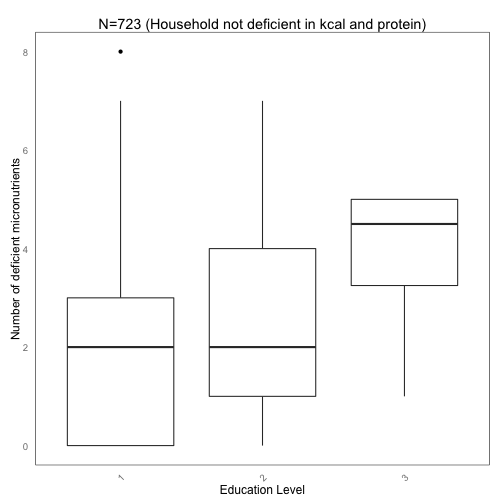
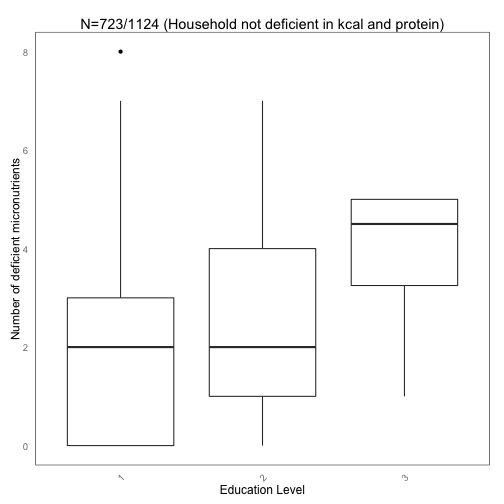
Initial commit

Changed region(s): [[0.1488, 0.0298, 0.8929, 0.0595]]

diff --git a/bin/report.html b/bin/report.html
@@ -68,36 +68,32 @@
 
 <body>
 
-<p>This is an R HTML document. When you click the <b>Knit HTML</b> button a web page will be generated that includes both content as well as the output of any embedded R code chunks within the document. You can embed an R code chunk like this:</p>
+Data can be found:<br>
+https://github.com/harvestchoice/nutrition_indicators<br><br>
+
+Summary<br>
+Using the Malawi household data, this exploratory analysis found a positive correlation between wealth and education(b6). The education level was recoded assuming that "Std" were primary level of education. It was found that diversity of diet is positively correlated with education level. However, there was an unexpected negative correlation of number of deficient micronutrients with education level. This relationship was more profound when households that were not deficient in calories and proteins were removed.
 
 <div class="chunk" id="unnamed-chunk-1"><div class="rcode"><div class="source"><pre class="knitr r"><span class="hl kwd">library</span><span class="hl std">(ggplot2)</span>
 <span class="hl std">fp.mwi.nutr</span> <span class="hl kwb">&lt;-</span> <span class="hl str">&quot;/Users/angelmak/Dropbox/git/nutrition_indicators/Malawi/mwi_nutrition.csv&quot;</span>
-<span class="hl std">fp.mwi.anthro</span> <span class="hl kwb">&lt;-</span> <span class="hl str">&quot;/Users/angelmak/Dropbox/git/nutrition_indicators/Malawi/mwi_anthropometry.csv&quot;</span>
 <span class="hl std">t.m.nutr</span> <span class="hl kwb">&lt;-</span> <span class="hl kwd">read.csv</span><span class="hl std">(fp.mwi.nutr)</span>
-<span class="hl std">t.m.anthro</span> <span class="hl kwb">&lt;-</span> <span class="hl kwd">read.csv</span><span class="hl std">(fp.mwi.anthro)</span>
 
-<span class="hl com"># deficiency</span>
-<span class="hl com">#names(t.m.nutr)</span>
-<span class="hl kwa">for</span> <span class="hl std">(i</span> <span class="hl kwa">in</span> <span class="hl num">1</span><span class="hl opt">:</span><span class="hl kwd">nrow</span><span class="hl std">(t.m.nutr)){</span>
-  <span class="hl std">t.m.nutr[i,</span><span class="hl str">&quot;defCount&quot;</span><span class="hl std">]</span> <span class="hl kwb">&lt;-</span> <span class="hl kwd">sum</span><span class="hl std">(t.m.nutr[i,</span><span class="hl num">257</span><span class="hl opt">:</span><span class="hl num">284</span><span class="hl std">]</span> <span class="hl opt">==</span> <span class="hl str">&quot;Yes&quot;</span><span class="hl std">)</span>
-<span class="hl std">}</span>
-
-<span class="hl com"># deficiency without kcal</span>
-<span class="hl kwd">names</span><span class="hl std">(t.m.nutr[,</span><span class="hl num">257</span><span class="hl opt">:</span><span class="hl num">284</span><span class="hl std">])</span>
+<span class="hl com"># variables indicating deficiency in nutrients, in the required level</span>
+<span class="hl std">req.names</span> <span class="hl kwb">&lt;-</span> <span class="hl kwd">names</span><span class="hl std">(t.m.nutr)[</span><span class="hl kwd">grep</span><span class="hl std">(</span><span class="hl str">&quot;req_hh&quot;</span><span class="hl std">,</span><span class="hl kwd">names</span><span class="hl std">(t.m.nutr))]</span>
+<span class="hl com"># variables indicating deficiency in micro-nutrients(exclude calories and proteins), in the required level</span>
+<span class="hl std">req.names.micro</span> <span class="hl kwb">&lt;-</span> <span class="hl std">req.names[</span><span class="hl num">3</span><span class="hl opt">:</span><span class="hl num">14</span><span class="hl std">]</span>
+<span class="hl std">req.names.micro</span>
 </pre></div>
-<div class="output"><pre class="knitr r">##  [1] &quot;def_kcal_rec_hh&quot;     &quot;def_kcal_req_hh&quot;     &quot;def_prot_rec_hh&quot;    
-##  [4] &quot;def_prot_req_hh&quot;     &quot;def_iron_rec_hh&quot;     &quot;def_iron_req_hh&quot;    
-##  [7] &quot;def_zinc_rec_hh&quot;     &quot;def_zinc_req_hh&quot;     &quot;def_vita_A_rec_hh&quot;  
-## [10] &quot;def_vita_A_req_hh&quot;   &quot;def_vita_E_rec_hh&quot;   &quot;def_vita_E_req_hh&quot;  
-## [13] &quot;def_vita_C_rec_hh&quot;   &quot;def_vita_C_req_hh&quot;   &quot;def_ribof_rec_hh&quot;   
-## [16] &quot;def_ribof_req_hh&quot;    &quot;def_thia_rec_hh&quot;     &quot;def_thia_req_hh&quot;    
-## [19] &quot;def_nia_rec_hh&quot;      &quot;def_nia_req_hh&quot;      &quot;def_vita_B6_rec_hh&quot; 
-## [22] &quot;def_vita_B6_req_hh&quot;  &quot;def_fol_rec_hh&quot;      &quot;def_fol_req_hh&quot;     
-## [25] &quot;def_calcium_rec_hh&quot;  &quot;def_calcium_req_hh&quot;  &quot;def_vita_B12_rec_hh&quot;
-## [28] &quot;def_vita_B12_req_hh&quot;
+<div class="output"><pre class="knitr r">##  [1] &quot;def_iron_req_hh&quot;     &quot;def_zinc_req_hh&quot;     &quot;def_vita_A_req_hh&quot;  
+##  [4] &quot;def_vita_E_req_hh&quot;   &quot;def_vita_C_req_hh&quot;   &quot;def_ribof_req_hh&quot;   
+##  [7] &quot;def_thia_req_hh&quot;     &quot;def_nia_req_hh&quot;      &quot;def_vita_B6_req_hh&quot; 
+## [10] &quot;def_fol_req_hh&quot;      &quot;def_calcium_req_hh&quot;  &quot;def_vita_B12_req_hh&quot;
 </pre></div>
 <div class="source"><pre class="knitr r"><span class="hl kwa">for</span> <span class="hl std">(i</span> <span class="hl kwa">in</span> <span class="hl num">1</span><span class="hl opt">:</span><span class="hl kwd">nrow</span><span class="hl std">(t.m.nutr)){</span>
-  <span class="hl std">t.m.nutr[i,</span><span class="hl str">&quot;defCountMicro&quot;</span><span class="hl std">]</span> <span class="hl kwb">&lt;-</span> <span class="hl kwd">sum</span><span class="hl std">(t.m.nutr[i,</span><span class="hl num">259</span><span class="hl opt">:</span><span class="hl num">284</span><span class="hl std">]</span> <span class="hl opt">==</span> <span class="hl str">&quot;Yes&quot;</span><span class="hl std">)</span>
+  <span class="hl std">t.m.nutr[i,</span><span class="hl str">&quot;defCountReq&quot;</span><span class="hl std">]</span> <span class="hl kwb">&lt;-</span> <span class="hl kwd">sum</span><span class="hl std">(t.m.nutr[i,req.names]</span> <span class="hl opt">==</span> <span class="hl str">&quot;Yes&quot;</span> <span class="hl std">)</span>
+<span class="hl std">}</span>
+<span class="hl kwa">for</span> <span class="hl std">(i</span> <span class="hl kwa">in</span> <span class="hl num">1</span><span class="hl opt">:</span><span class="hl kwd">nrow</span><span class="hl std">(t.m.nutr)){</span>
+  <span class="hl std">t.m.nutr[i,</span><span class="hl str">&quot;defCountReqMicro&quot;</span><span class="hl std">]</span> <span class="hl kwb">&lt;-</span> <span class="hl kwd">sum</span><span class="hl std">(t.m.nutr[i,req.names.micro]</span> <span class="hl opt">==</span> <span class="hl str">&quot;Yes&quot;</span><span class="hl std">)</span>
 <span class="hl std">}</span>
 
 <span class="hl com">#Education -&gt; wealth</span>
@@ -112,6 +108,9 @@
 </pre></div>
 </div><div class="rimage default"><img src="figure/unnamed-chunk-1-1.png" title="plot of chunk unnamed-chunk-1" alt="plot of chunk unnamed-chunk-1" class="plot" /></div><div class="rcode">
 <div class="source"><pre class="knitr r"><span class="hl com">#Recode education level</span>
+<span class="hl com">#1=primary</span>
+<span class="hl com">#2=secondary</span>
+<span class="hl com">#3=tertiary</span>
 <span class="hl std">rowi.2</span> <span class="hl kwb">&lt;-</span> <span class="hl kwd">grep</span><span class="hl std">(</span><span class="hl str">&quot;Form&quot;</span><span class="hl std">,t.m.nutr</span><span class="hl opt">$</span><span class="hl std">b6)</span>
 <span class="hl std">rowi.1</span> <span class="hl kwb">&lt;-</span> <span class="hl kwd">grep</span><span class="hl std">(</span><span class="hl str">&quot;Std|No&quot;</span><span class="hl std">,t.m.nutr</span><span class="hl opt">$</span><span class="hl std">b6)</span>
 <span class="hl std">rowi.3</span> <span class="hl kwb">&lt;-</span> <span class="hl kwd">grep</span><span class="hl std">(</span><span class="hl str">&quot;College|Diploma&quot;</span><span class="hl std">,t.m.nutr</span><span class="hl opt">$</span><span class="hl std">b6)</span>
@@ -161,23 +160,7 @@
 <span class="hl std">plot</span>
 </pre></div>
 </div><div class="rimage default"><img src="figure/unnamed-chunk-1-4.png" title="plot of chunk unnamed-chunk-1" alt="plot of chunk unnamed-chunk-1" class="plot" /></div><div class="rcode">
-<div class="source"><pre class="knitr r"><span class="hl std">req.names</span> <span class="hl kwb">&lt;-</span> <span class="hl kwd">names</span><span class="hl std">(t.m.nutr)[</span><span class="hl kwd">grep</span><span class="hl std">(</span><span class="hl str">&quot;req_hh&quot;</span><span class="hl std">,</span><span class="hl kwd">names</span><span class="hl std">(t.m.nutr))]</span>
-<span class="hl std">req.names.micro</span> <span class="hl kwb">&lt;-</span> <span class="hl std">req.names[</span><span class="hl num">3</span><span class="hl opt">:</span><span class="hl num">14</span><span class="hl std">]</span>
-<span class="hl std">req.names.micro</span>
-</pre></div>
-<div class="output"><pre class="knitr r">##  [1] &quot;def_iron_req_hh&quot;     &quot;def_zinc_req_hh&quot;     &quot;def_vita_A_req_hh&quot;  
-##  [4] &quot;def_vita_E_req_hh&quot;   &quot;def_vita_C_req_hh&quot;   &quot;def_ribof_req_hh&quot;   
-##  [7] &quot;def_thia_req_hh&quot;     &quot;def_nia_req_hh&quot;      &quot;def_vita_B6_req_hh&quot; 
-## [10] &quot;def_fol_req_hh&quot;      &quot;def_calcium_req_hh&quot;  &quot;def_vita_B12_req_hh&quot;
-</pre></div>
-<div class="source"><pre class="knitr r"><span class="hl kwa">for</span> <span class="hl std">(i</span> <span class="hl kwa">in</span> <span class="hl num">1</span><span class="hl opt">:</span><span class="hl kwd">nrow</span><span class="hl std">(t.m.nutr)){</span>
-  <span class="hl std">t.m.nutr[i,</span><span class="hl str">&quot;defCountReq&quot;</span><span class="hl std">]</span> <span class="hl kwb">&lt;-</span> <span class="hl kwd">sum</span><span class="hl std">(t.m.nutr[i,req.names]</span> <span class="hl opt">==</span> <span class="hl str">&quot;Yes&quot;</span> <span class="hl std">)</span>
-<span class="hl std">}</span>
-<span class="hl kwa">for</span> <span class="hl std">(i</span> <span class="hl kwa">in</span> <span class="hl num">1</span><span class="hl opt">:</span><span class="hl kwd">nrow</span><span class="hl std">(t.m.nutr)){</span>
-  <span class="hl std">t.m.nutr[i,</span><span class="hl str">&quot;defCountReqMicro&quot;</span><span class="hl std">]</span> <span class="hl kwb">&lt;-</span> <span class="hl kwd">sum</span><span class="hl std">(t.m.nutr[i,req.names.micro]</span> <span class="hl opt">==</span> <span class="hl str">&quot;Yes&quot;</span><span class="hl std">)</span>
-<span class="hl std">}</span>
-
-<span class="hl std">t.m.nutr.lite</span> <span class="hl kwb">&lt;-</span> <span class="hl std">t.m.nutr[</span><span class="hl kwd">which</span><span class="hl std">(t.m.nutr</span><span class="hl opt">$</span><span class="hl std">def_kcal_rec_hh</span> <span class="hl opt">==</span> <span class="hl str">&quot;No&quot;</span> <span class="hl opt">&amp;</span> <span class="hl std">t.m.nutr</span><span class="hl opt">$</span><span class="hl std">def_prot_rec_hh</span> <span class="hl opt">==</span> <span class="hl str">&quot;No&quot;</span><span class="hl std">),]</span>
+<div class="source"><pre class="knitr r"><span class="hl std">t.m.nutr.lite</span> <span class="hl kwb">&lt;-</span> <span class="hl std">t.m.nutr[</span><span class="hl kwd">which</span><span class="hl std">(t.m.nutr</span><span class="hl opt">$</span><span class="hl std">def_kcal_rec_hh</span> <span class="hl opt">==</span> <span class="hl str">&quot;No&quot;</span> <span class="hl opt">&amp;</span> <span class="hl std">t.m.nutr</span><span class="hl opt">$</span><span class="hl std">def_prot_rec_hh</span> <span class="hl opt">==</span> <span class="hl str">&quot;No&quot;</span><span class="hl std">),]</span>
 <span class="hl com">#t.m.nutr.lite[1:10,257:284]</span>
 
 
@@ -203,7 +186,7 @@
 <span class="hl std">plot</span> <span class="hl kwb">&lt;-</span> <span class="hl kwd">ggplot</span><span class="hl std">()</span> <span class="hl opt">+</span> <span class="hl kwd">theme</span><span class="hl std">(</span><span class="hl kwc">panel.background</span> <span class="hl std">=</span> <span class="hl kwd">element_rect</span><span class="hl std">(</span><span class="hl kwc">fill</span><span class="hl std">=</span><span class="hl num">0</span><span class="hl std">,</span><span class="hl kwc">colour</span><span class="hl std">=</span><span class="hl str">&quot;black&quot;</span><span class="hl std">),</span> <span class="hl kwc">axis.ticks</span><span class="hl std">=</span><span class="hl kwd">element_blank</span><span class="hl std">(),</span> <span class="hl kwc">panel.grid</span> <span class="hl std">=</span> <span class="hl kwd">element_blank</span><span class="hl std">())</span>
 <span class="hl std">plot</span> <span class="hl kwb">&lt;-</span> <span class="hl std">plot</span> <span class="hl opt">+</span> <span class="hl kwd">theme</span><span class="hl std">(</span><span class="hl kwc">axis.text.x</span> <span class="hl std">=</span> <span class="hl kwd">element_text</span><span class="hl std">(</span><span class="hl kwc">angle</span><span class="hl std">=</span><span class="hl num">45</span><span class="hl std">,</span> <span class="hl kwc">hjust</span> <span class="hl std">=</span><span class="hl num">1</span><span class="hl std">))</span>
 <span class="hl std">plot</span> <span class="hl kwb">&lt;-</span> <span class="hl std">plot</span> <span class="hl opt">+</span> <span class="hl kwd">geom_boxplot</span><span class="hl std">(</span><span class="hl kwc">data</span><span class="hl std">=t.m.nutr.lite,</span><span class="hl kwd">aes</span><span class="hl std">(</span><span class="hl kwd">factor</span><span class="hl std">(t.m.nutr.lite</span><span class="hl opt">$</span><span class="hl std">edLvl),t.m.nutr.lite</span><span class="hl opt">$</span><span class="hl std">defCountReqMicro))</span>
-<span class="hl std">plot</span> <span class="hl kwb">&lt;-</span> <span class="hl std">plot</span> <span class="hl opt">+</span> <span class="hl kwd">labs</span><span class="hl std">(</span><span class="hl kwc">title</span><span class="hl std">=</span><span class="hl kwd">paste</span><span class="hl std">(</span><span class="hl str">&quot;N=723 (Household not deficient in kcal and protein)&quot;</span><span class="hl std">,</span><span class="hl kwc">sep</span><span class="hl std">=</span><span class="hl str">&quot;&quot;</span><span class="hl std">))</span> <span class="hl com">#+ theme(plot.title = element_text(size = rel(2), colour = &quot;blue&quot;))</span>
+<span class="hl std">plot</span> <span class="hl kwb">&lt;-</span> <span class="hl std">plot</span> <span class="hl opt">+</span> <span class="hl kwd">labs</span><span class="hl std">(</span><span class="hl kwc">title</span><span class="hl std">=</span><span class="hl kwd">paste</span><span class="hl std">(</span><span class="hl str">&quot;N=723/1124 (Household not deficient in kcal and protein)&quot;</span><span class="hl std">,</span><span class="hl kwc">sep</span><span class="hl std">=</span><span class="hl str">&quot;&quot;</span><span class="hl std">))</span> <span class="hl com">#+ theme(plot.title = element_text(size = rel(2), colour = &quot;blue&quot;))</span>
 <span class="hl std">plot</span> <span class="hl kwb">&lt;-</span> <span class="hl std">plot</span> <span class="hl opt">+</span> <span class="hl kwd">xlab</span><span class="hl std">(</span><span class="hl str">&quot;Education Level&quot;</span><span class="hl std">)</span> <span class="hl com"># x-axis title</span>
 <span class="hl std">plot</span> <span class="hl kwb">&lt;-</span> <span class="hl std">plot</span> <span class="hl opt">+</span> <span class="hl kwd">ylab</span><span class="hl std">(</span><span class="hl str">&quot;Number of deficient micronutrients&quot;</span><span class="hl std">)</span> <span class="hl com"># y-axis title</span>
 <span class="hl std">plot</span>
@@ -211,13 +194,14 @@
 </div><div class="rimage default"><img src="figure/unnamed-chunk-1-6.png" title="plot of chunk unnamed-chunk-1" alt="plot of chunk unnamed-chunk-1" class="plot" /></div><div class="rcode">
 <div class="source"><pre class="knitr r"><span class="hl kwd">dim</span><span class="hl std">(t.m.nutr)</span>
 </pre></div>
-<div class="output"><pre class="knitr r">## [1] 1142  315
+<div class="output"><pre class="knitr r">## [1] 1142  313
 </pre></div>
 <div class="source"><pre class="knitr r"><span class="hl kwd">dim</span><span class="hl std">(t.m.nutr.lite)</span>
 </pre></div>
-<div class="output"><pre class="knitr r">## [1] 723 315
+<div class="output"><pre class="knitr r">## [1] 723 313
 </pre></div>
-<div class="source"><pre class="knitr r"><span class="hl kwd">summary</span><span class="hl std">(</span><span class="hl kwd">factor</span><span class="hl std">(t.m.nutr.lite</span><span class="hl opt">$</span><span class="hl std">edLvl))</span>
+<div class="source"><pre class="knitr r"><span class="hl com"># Note that the number of households is small for those with Tertiary level of education</span>
+<span class="hl kwd">summary</span><span class="hl std">(</span><span class="hl kwd">factor</span><span class="hl std">(t.m.nutr.lite</span><span class="hl opt">$</span><span class="hl std">edLvl))</span>
 </pre></div>
 <div class="output"><pre class="knitr r">##   1   2   3 
 ## 638  81   4
